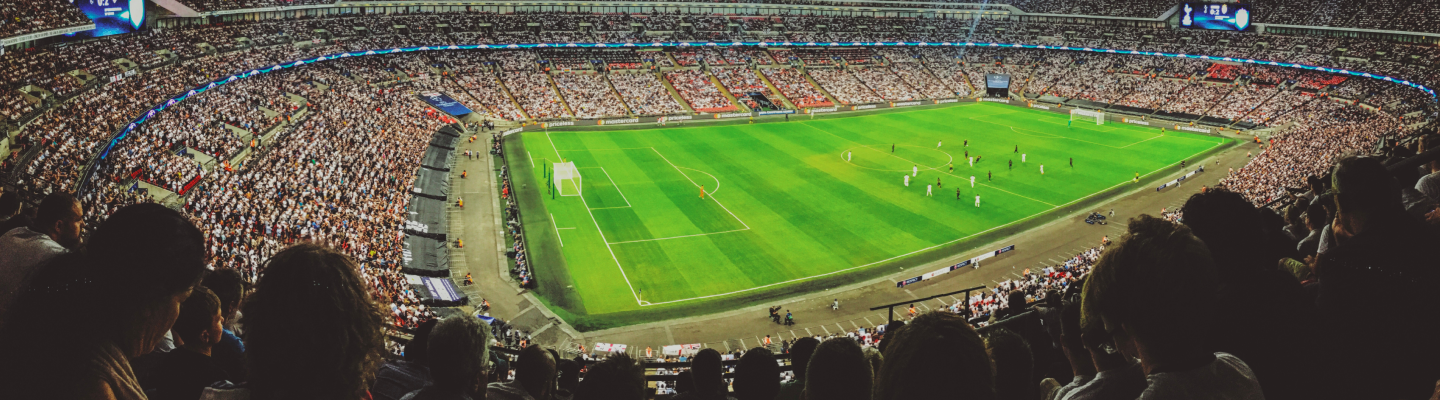
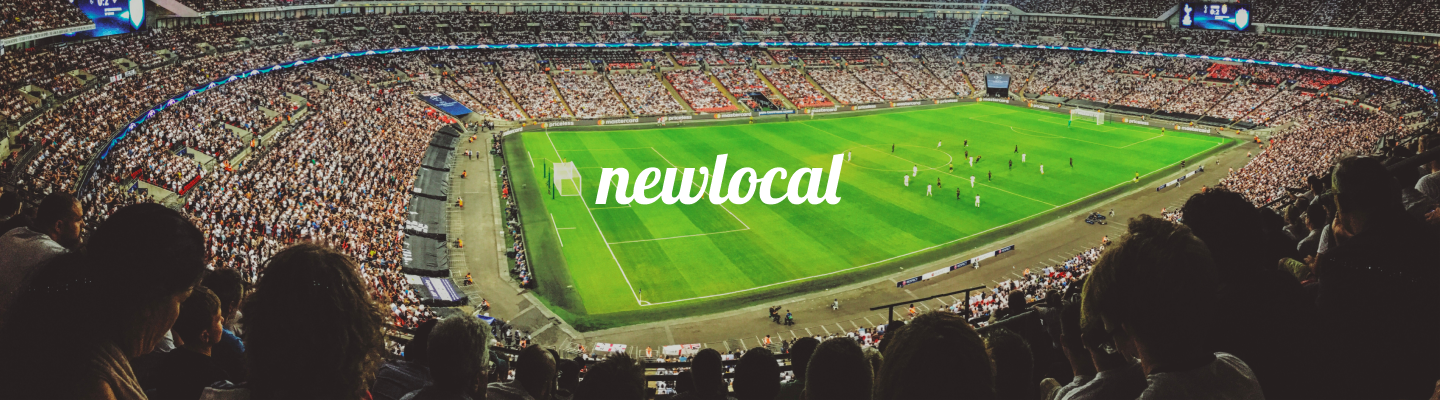
updated project container images

Changed region(s): [[0.4062, 0.39, 0.5938, 0.51]]

diff --git a/css/main.css b/css/main.css
@@ -64,6 +64,16 @@ z-index: 100;
   color: black;
 }
 
+.buttoncs1 {
+  height: 75px;
+  width: 224px;
+  border-radius: 10px;
+  background-color: #83B29B;
+  box-shadow: 0 4px 4px rgba(0, 0, 0, 0.25);
+  color: white;
+  font-size: 18px;
+}
+
 body {
   margin: 0;
 }
@@ -123,8 +133,12 @@ padding-top: 330px;
 }
 
 .project1:hover .project-container1 {
-  opacity: 0.3;
+  opacity: 0.2;
   color: transparent;
+}
+
+.project1:hover .project1_hover {
+  opacity: 100%;
 }
 
 .project-container1 {
@@ -138,15 +152,11 @@ padding-top: 330px;
   color: white;
   justify-content: center;
   align-items: center;
-  font-family: "Lobster", cursive;
-  font-size: 72px;
 }
 
-.project1_hover p {
-  display: hidden;
-  font-family: "Helvetica", "Lato", "Lucida Grande", "Lucida Sans Unicode", "Tahoma", "Sans-Serif";
-  font-size: 24px;
-  z-index: 4;
+.project1_hover {
+  opacity: 0;
+  z-index: 1;
 }
 
 .project2 {
@@ -154,12 +164,8 @@ padding-top: 330px;
 }
 
 .project2:hover .project-container2{
-  opacity: 0.3;
+  opacity: 0.2;
   color: transparent;
-}
-
-.project2:hover .project2_title{
-  display: none;
 }
 
 .project-container2 {
@@ -173,8 +179,16 @@ padding-top: 330px;
   color: white;
   justify-content: center;
   align-items: center;
-  font-family: "Lobster", cursive;
-  font-size: 72px;
+}
+
+.project2_hover {
+  opacity: 0;
+  z-index: 1;
+}
+
+.project2_hover:hover {
+  opacity: 1;
+
 }
 
 .about {

diff --git a/index.html b/index.html
@@ -41,16 +41,20 @@
        <h2>Projects</h2>
        <div class="project1">
          <div class="project-container1">
-<!--             <div class="project1_hover">
-               <p>newlocal - <br>iOS application for finding your favorite sports teams local bar</p>
-               <button class="case_study">View Case Study</button>
-             </div> -->
-           <p>newlocal</p>
+            <div class="project1_hover">
+               <p>newlocal - </p>
+               <p>iOS application for finding your favorite sports teams local bar</p>
+               <button class="buttoncs1">View Case Study</button>
+            </div>
          </div>
        </div>
        <div class="project2">
          <div class="project-container2">
-           <img class="project2_title" src="images/fb_logo.png" alt="Fruition Brewing" />
+           <div class="project2_hover">
+              <p>Fruition Brewing - </p>
+              <p>Craft Brewery website redesign</p>
+              <button class="buttoncs2">View Case Study</button>
+           </div>
          </div>
        </div>
      </section>
